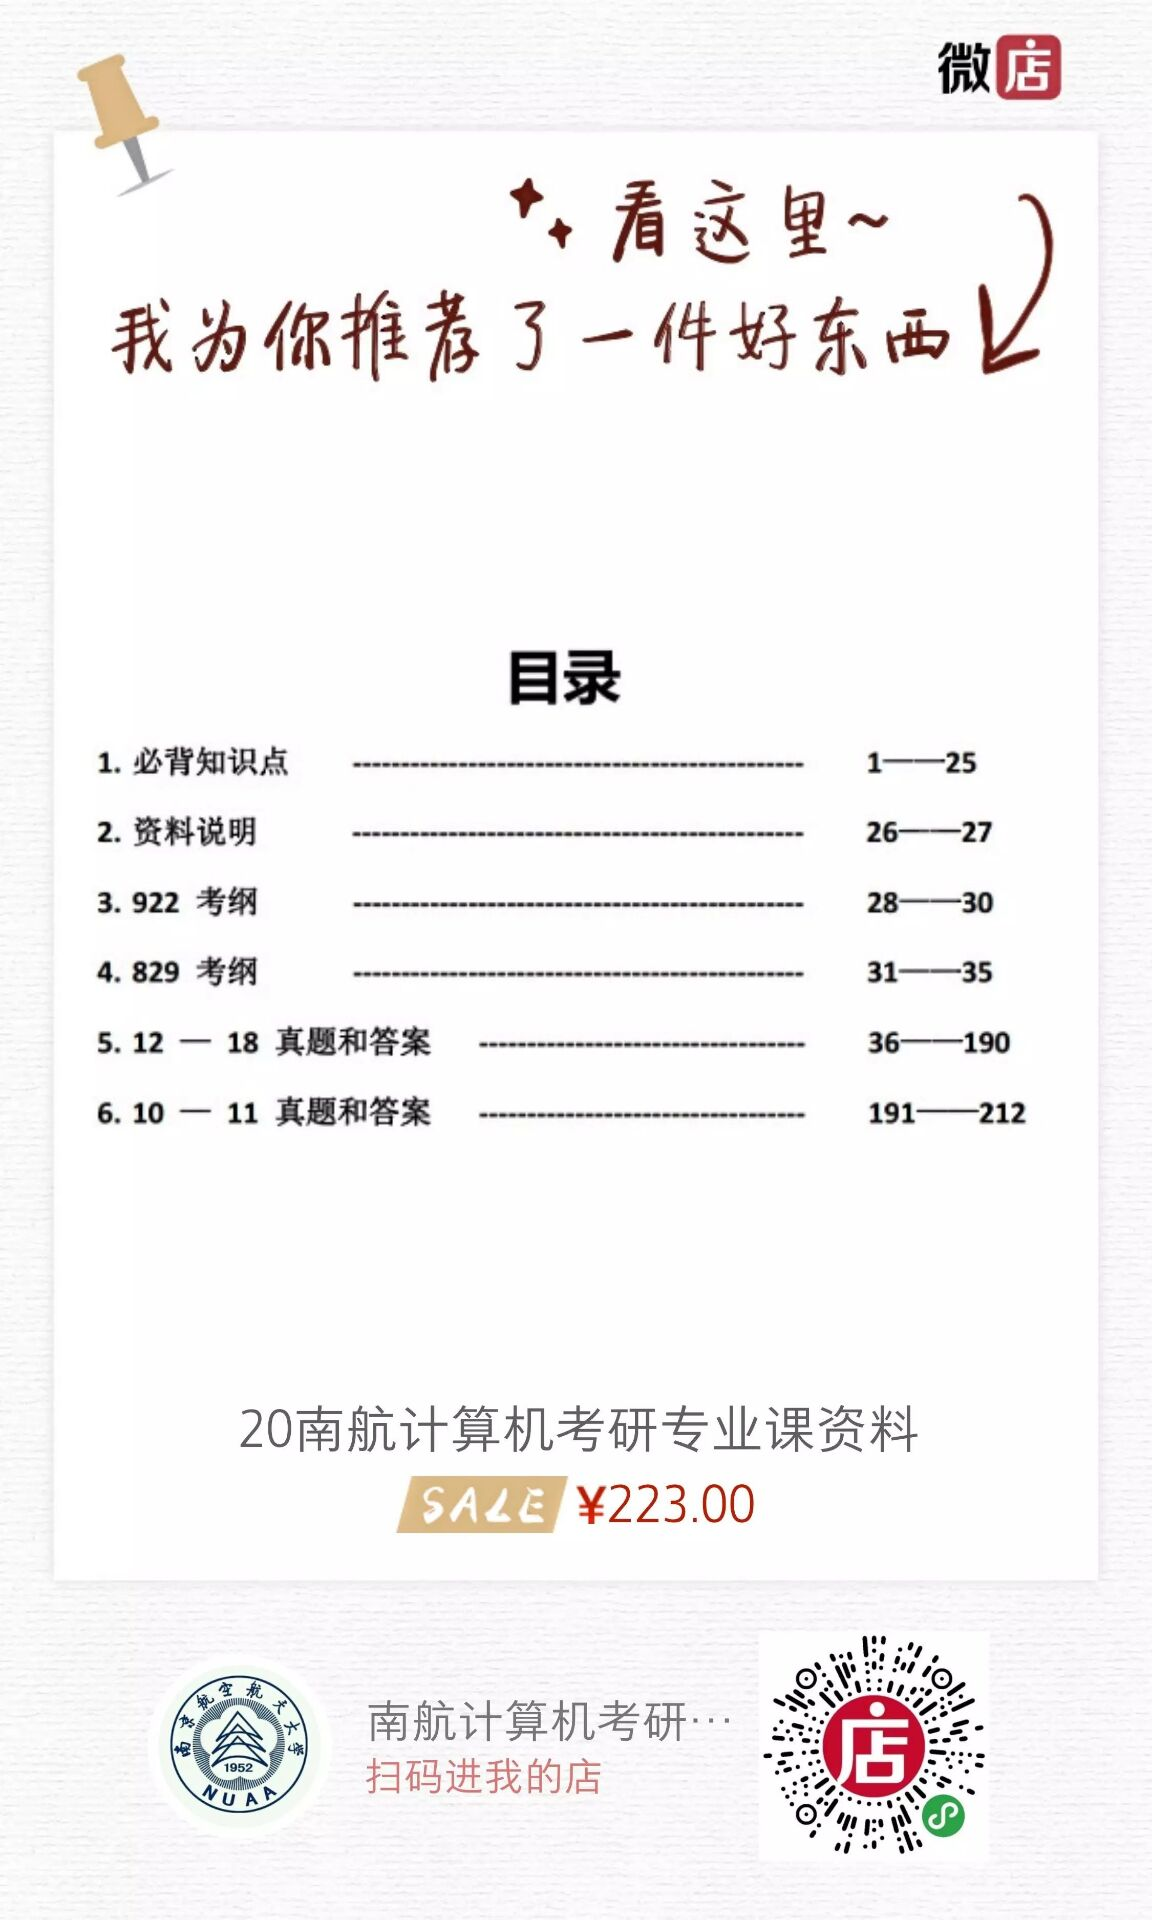
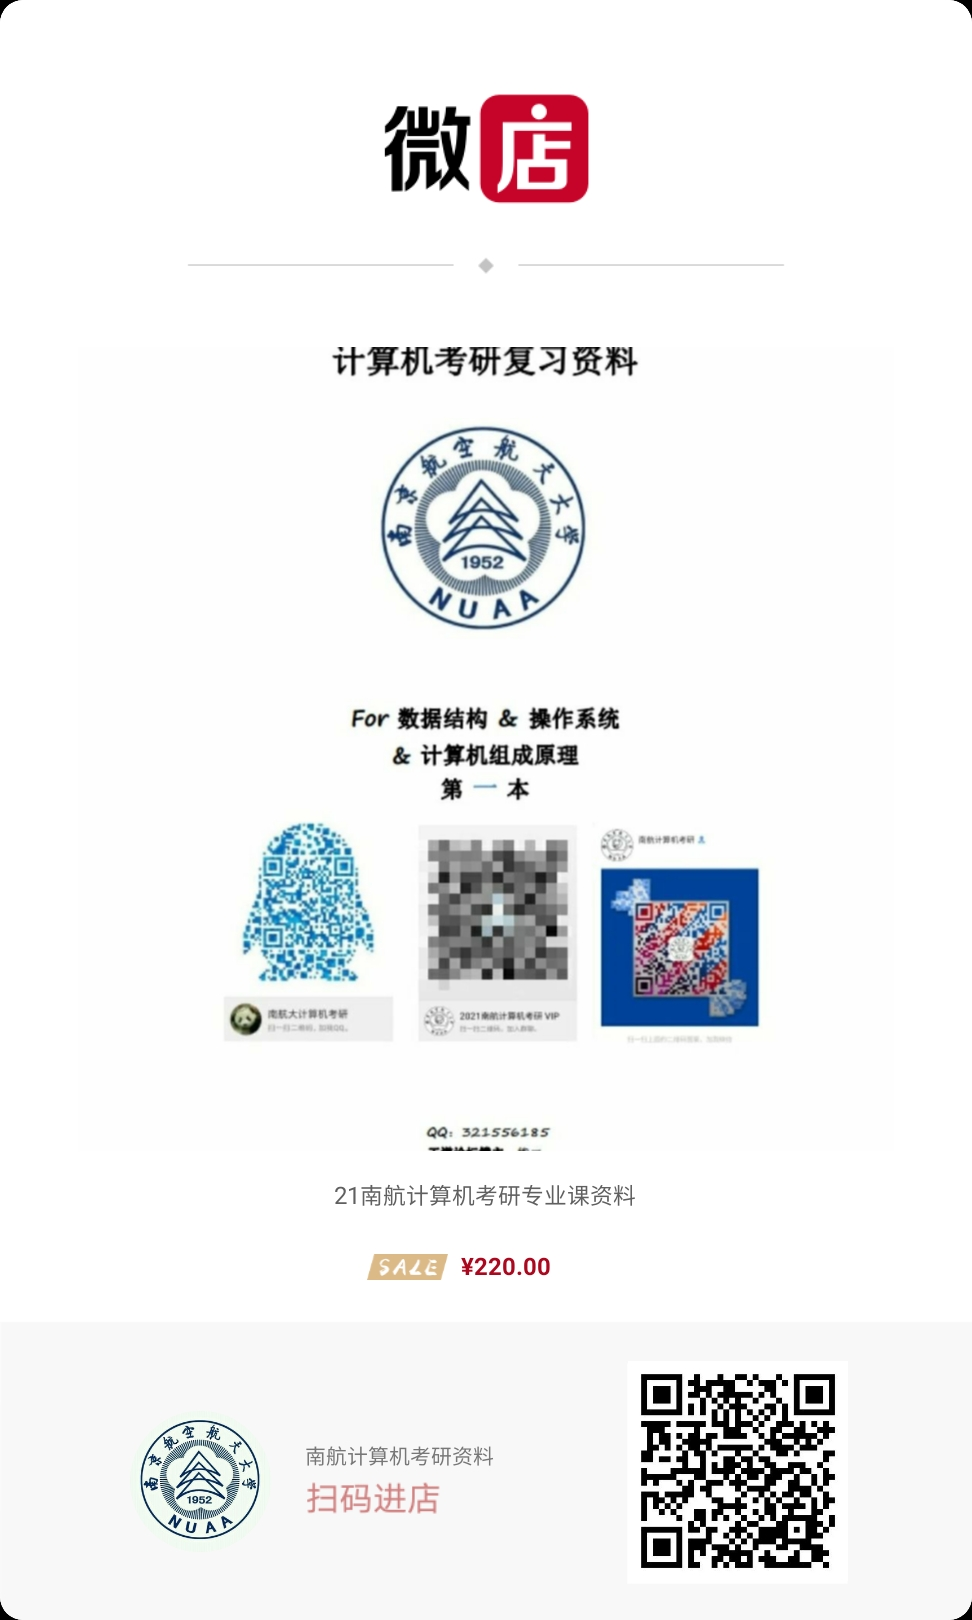
update 21 资料信息

diff --git a/README.md b/README.md
@@ -26,7 +26,7 @@ Awesome-NUAA-CS-Kaoyan
 
 * [**20 届后南航计算机考研变化分析**](经验贴/20届后南航计算机考研变化.md)
 * **熊二学长会继续做 2021届的南航计算机考研辅导！2021届的群号为：915819571**
-* **829 计算机组成原理的解析正在编写，2021 届考研的同学，能从我这里买到 829 的资料了**
+* **829 计算机组成原理的解析已经编写完成，2021 届考研的同学，能从我这里买到 829 的资料了**
 
 ## Inspiration
 
@@ -40,6 +40,7 @@ Awesome-NUAA-CS-Kaoyan
     <img src="/assets/微信.jpg" width=20% height=20% />
     <img src="/assets/21考研群.jpg" width=20% height=20% />
     <img src="/assets/微店链接.jpg" width=20% height=20% />
+    <img src="/assets/微店小程序链接.jpg" width=20% height=20% />
 </div>
 
 
@@ -53,7 +54,7 @@ Awesome-NUAA-CS-Kaoyan
   * Others
 
 * **考研专业课资料地址**
-  * 微店：https://k.weidian.com/a0lQclaM （[20级南航计算机考研资料](https://k.weidian.com/a0lQclaM )）
+  * 微店：https://k.weidian.com/a0lQclaM （[21届南航计算机考研资料](https://k.weidian.com/a0lQclaM )）
   * 拼多多: https://mobile.yangkeduo.com/goods2.html?goods_id=6128127926
 * **南航计算机考研辅导历史**
   * 2017-02 考研出分，总分 400+，专业课成绩 135+
